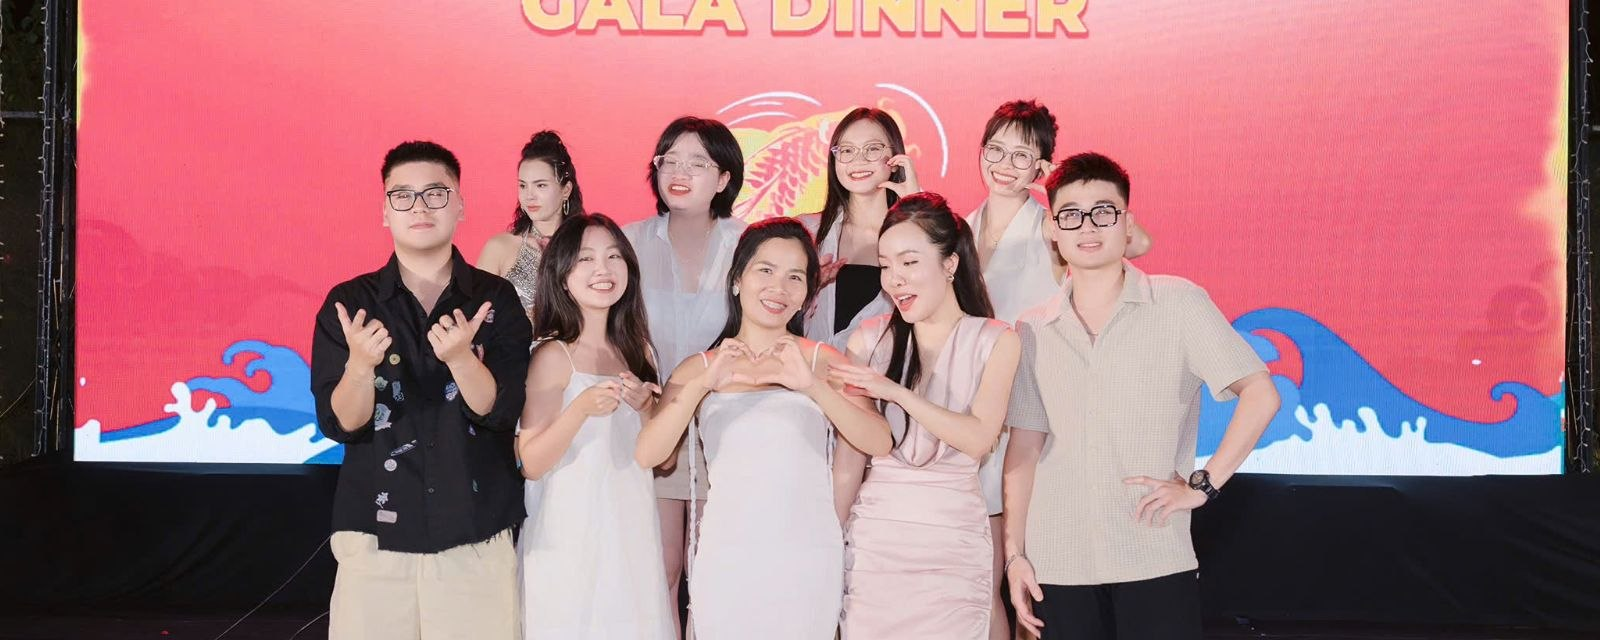
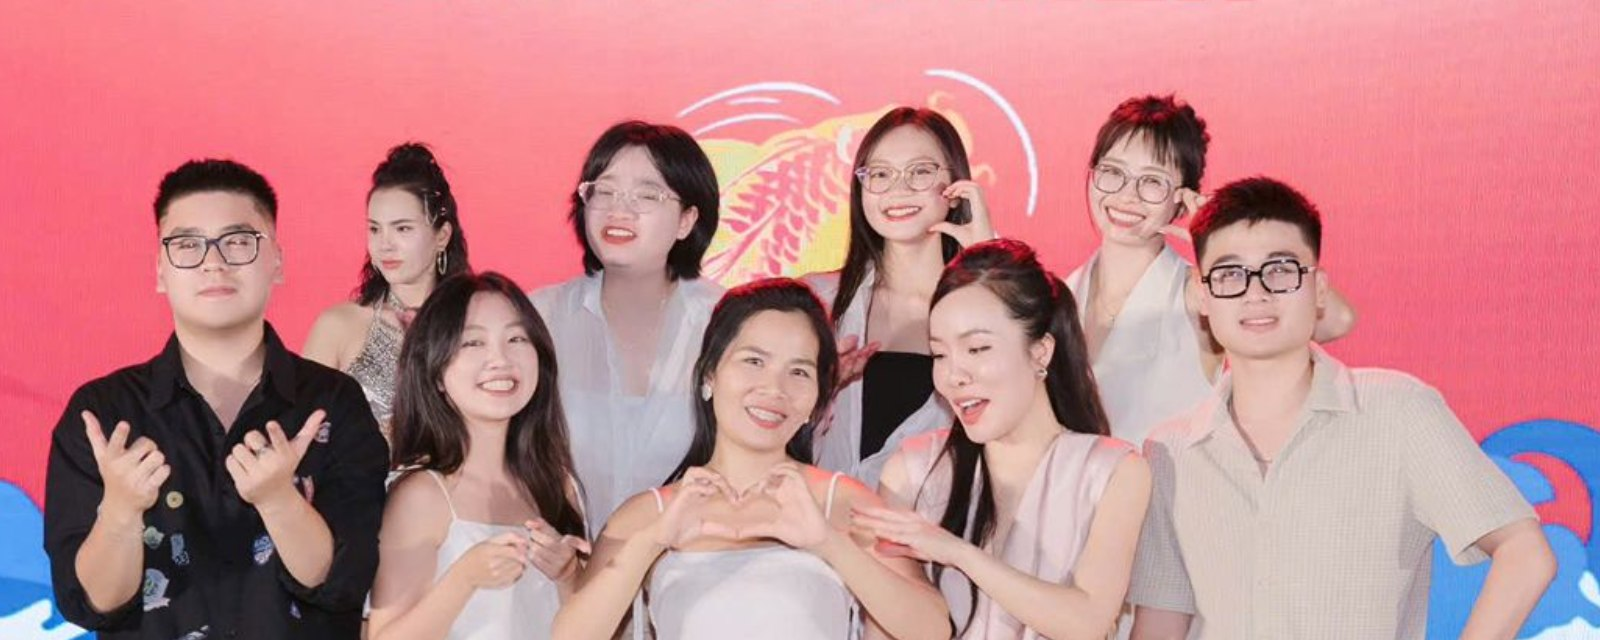
Sync latest admin-panel uploads: VNA cover/gallery cluster, team photo, process case
- Updated Vietnam Airlines cover photo
- Wired the 2 new gallery-cluster images for Vietnam Airlines
- Updated the leadership team/mentoring photo
- Wired the process-automation case photo in the operations ownership chapter
- Panasonic project cover was cleared via the admin panel (user action) — left as placeholder pending a new upload
- Bump cache version to v=59

diff --git a/data/content.js b/data/content.js
@@ -1,4 +1,4 @@
-// AUTO-GENERATED from content.json — do not hand-edit.
+// AUTO-GENERATED from content.json — do not hand-edit. Run scripts/build_content_js.py after editing content.json.
 window.SITE_CONTENT = {
   "meta": {
     "siteTitle": {
@@ -314,7 +314,8 @@ window.SITE_CONTENT = {
             "label": {
               "vi": "Sơ đồ tự động hoá quy trình",
               "en": "Process automation diagram"
-            }
+            },
+            "image": "../assets/images/ownership-case-operations-1.jpg"
           }
         ],
         "techTags": [
@@ -351,7 +352,8 @@ window.SITE_CONTENT = {
               "vi": "Ảnh đội nhóm / mentoring",
               "en": "Team / mentoring photo"
             },
-            "placeholder": true
+            "placeholder": true,
+            "image": "../assets/images/ownership-team.jpg"
           }
         ],
         "stat": {
@@ -554,8 +556,8 @@ window.SITE_CONTENT = {
           }
         ],
         "gallery": [
-          "",
-          ""
+          "../assets/images/gallery-vietnam-airlines-0.jpg",
+          "../assets/images/gallery-vietnam-airlines-1.jpg"
         ]
       },
       {
@@ -569,7 +571,7 @@ window.SITE_CONTENT = {
           "vi": "2023 — 2026",
           "en": "2023 — 2026"
         },
-        "cover": "../assets/images/cover-panasonic.jpg",
+        "cover": "",
         "problem": {
           "vi": "Panasonic Service Vietnam cần một chiến dịch kỷ niệm 20 năm (\"20th years of Trusted Service\") vừa thúc đẩy doanh số các gói bảo dưỡng và gia hạn bảo hành, vừa xây dựng thành công cộng đồng khách hàng trung thành dài hạn.",
           "en": "Panasonic Service Vietnam required a 20th-anniversary campaign (\"20 Years of Trusted Service\") that simultaneously drove sales for maintenance and extended-warranty packages while successfully building a long-term loyal customer community."

diff --git a/bold/index.html b/bold/index.html
@@ -18,7 +18,7 @@
 <link rel="preconnect" href="https://fonts.gstatic.com" crossorigin>
 <link href="https://fonts.googleapis.com/css2?family=Archivo:wght@700;800;900&family=Inter:wght@400;500;600;700&family=Caveat:wght@600;700&display=swap" rel="stylesheet">
 
-<link rel="stylesheet" href="css/style.css?v=48">
+<link rel="stylesheet" href="css/style.css?v=59">
 </head>
 <body>
 <a class="skip-link" href="#main">Bỏ qua tới nội dung chính / Skip to content</a>
@@ -198,10 +198,10 @@
   </div>
 </footer>
 
-<script src="../data/content.js?v=48"></script>
+<script src="../data/content.js?v=59"></script>
 <script src="https://cdnjs.cloudflare.com/ajax/libs/gsap/3.12.5/gsap.min.js"></script>
 <script src="https://cdnjs.cloudflare.com/ajax/libs/gsap/3.12.5/ScrollTrigger.min.js"></script>
 <script src="https://unpkg.com/lenis@1.1.18/dist/lenis.min.js"></script>
-<script src="js/main.js?v=48"></script>
+<script src="js/main.js?v=59"></script>
 </body>
 </html>

diff --git a/bold/admin.html b/bold/admin.html
@@ -9,7 +9,7 @@
 <link rel="preconnect" href="https://fonts.googleapis.com">
 <link rel="preconnect" href="https://fonts.gstatic.com" crossorigin>
 <link href="https://fonts.googleapis.com/css2?family=Archivo:wght@700;800;900&family=Inter:wght@400;500;600;700&display=swap" rel="stylesheet">
-<link rel="stylesheet" href="css/style.css?v=47">
+<link rel="stylesheet" href="css/style.css?v=59">
 <link rel="stylesheet" href="css/admin.css?v=2">
 </head>
 <body class="admin-body">
